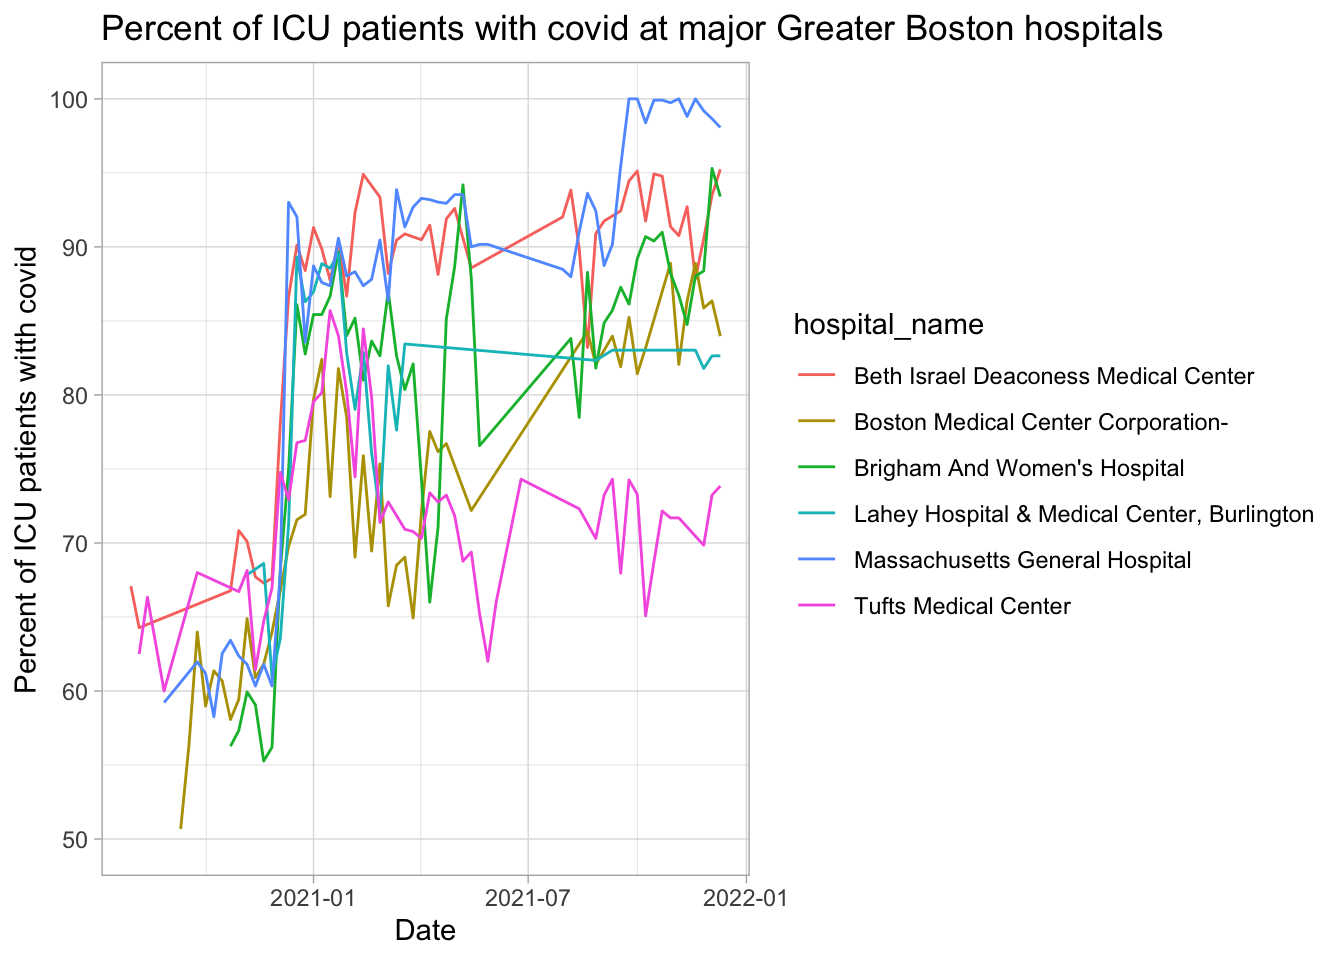
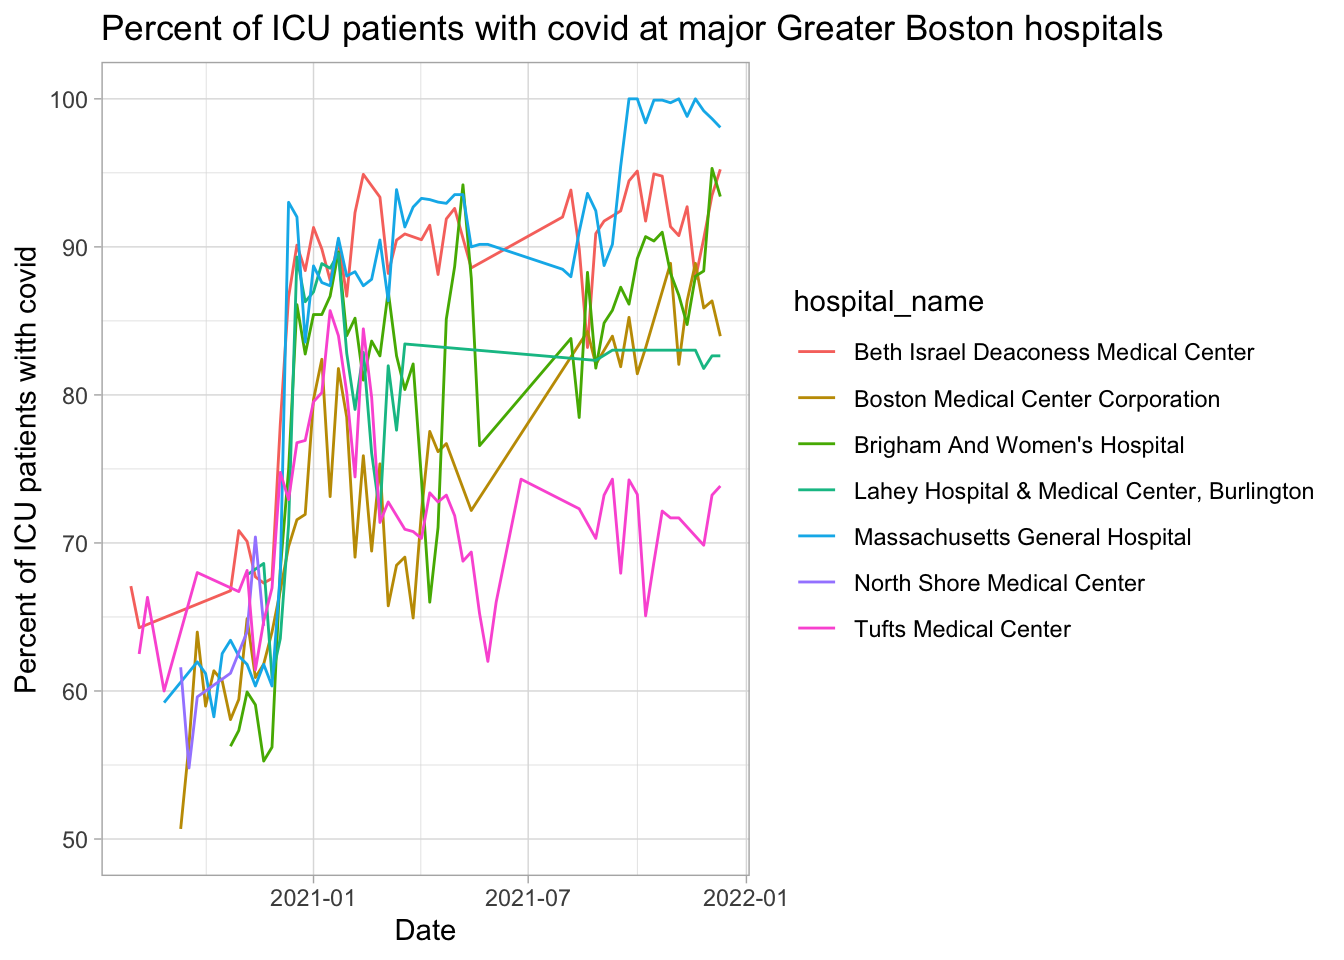
updated data

diff --git a/docs/index.html b/docs/index.html
@@ -284,124 +284,30 @@ $(document).ready(function () {
 <p><img src="index_files/figure-html/unnamed-chunk-3-1.png" width="672" /></p>
 <div id="hospital-data" class="section level3">
 <h3>Hospital data</h3>
-<p>The US Department of Health and Human Services gives data on hospital usage. Here are data for hospitals in this area.</p>
+<p>The US Department of Health and Human Services gives data on hospital usage. Here are data for hospitals in this area with at least 25 ICU beds.</p>
 <table>
 <colgroup>
-<col width="25%" />
-<col width="6%" />
 <col width="9%" />
-<col width="13%" />
-<col width="11%" />
-<col width="9%" />
-<col width="13%" />
-<col width="10%" />
+<col width="23%" />
+<col width="18%" />
+<col width="24%" />
+<col width="19%" />
+<col width="5%" />
 </colgroup>
 <thead>
 <tr class="header">
 <th align="left">Hospital</th>
-<th align="left">City</th>
-<th align="right">Adult beds total</th>
-<th align="right">Adult beds number avail</th>
-<th align="right">Adult beds % avail</th>
-<th align="right">Adult ICU total</th>
 <th align="right">Adult ICU number avail</th>
 <th align="right">Adult ICU % avail</th>
+<th align="right">Adult beds number avail</th>
+<th align="right">Adult beds % avail</th>
+<th align="left">City</th>
 </tr>
 </thead>
 <tbody>
-<tr class="odd">
-<td align="left">Massachusetts General Hospital</td>
-<td align="left">Boston</td>
-<td align="right">913</td>
-<td align="right">37</td>
-<td align="right">4</td>
-<td align="right">119</td>
-<td align="right">2</td>
-<td align="right">2</td>
-</tr>
-<tr class="even">
-<td align="left">Brigham And Women’s Hospital</td>
-<td align="left">Boston</td>
-<td align="right">808</td>
-<td align="right">29</td>
-<td align="right">4</td>
-<td align="right">100</td>
-<td align="right">7</td>
-<td align="right">7</td>
-</tr>
-<tr class="odd">
-<td align="left">Beth Israel Deaconess Medical Center</td>
-<td align="left">Boston</td>
-<td align="right">717</td>
-<td align="right">23</td>
-<td align="right">3</td>
-<td align="right">78</td>
-<td align="right">4</td>
-<td align="right">5</td>
-</tr>
-<tr class="even">
-<td align="left">Boston Medical Center Corporation-</td>
-<td align="left">Boston</td>
-<td align="right">442</td>
-<td align="right">60</td>
-<td align="right">14</td>
-<td align="right">63</td>
-<td align="right">10</td>
-<td align="right">16</td>
-</tr>
-<tr class="odd">
-<td align="left">Lahey Hospital &amp; Medical Center, Burlington</td>
-<td align="left">Burlington</td>
-<td align="right">341</td>
-<td align="right">11</td>
-<td align="right">3</td>
-<td align="right">58</td>
-<td align="right">10</td>
-<td align="right">17</td>
-</tr>
-<tr class="even">
-<td align="left">Tufts Medical Center</td>
-<td align="left">Boston</td>
-<td align="right">330</td>
-<td align="right">75</td>
-<td align="right">23</td>
-<td align="right">65</td>
-<td align="right">17</td>
-<td align="right">26</td>
-</tr>
-<tr class="odd">
-<td align="left">North Shore Medical Center -</td>
-<td align="left">Salem</td>
-<td align="right">293</td>
-<td align="right">14</td>
-<td align="right">5</td>
-<td align="right">19</td>
-<td align="right">1</td>
-<td align="right">4</td>
-</tr>
-<tr class="even">
-<td align="left">Cambridge Health Alliance</td>
-<td align="left">Cambridge</td>
-<td align="right">188</td>
-<td align="right">23</td>
-<td align="right">12</td>
-<td align="right">12</td>
-<td align="right">3</td>
-<td align="right">22</td>
-</tr>
-<tr class="odd">
-<td align="left">New England Baptist Hospital</td>
-<td align="left">Boston</td>
-<td align="right">65</td>
-<td align="right">4</td>
-<td align="right">7</td>
-<td align="right">5</td>
-<td align="right">0</td>
-<td align="right">0</td>
-</tr>
 </tbody>
 </table>
-<p>Plotting percentage of ICU patients with covid over time. Some hospitals have much more frequently updated data than others; some is fairly gappy. This just plots the hospitals that average with at least 50 ICU beds per week.</p>
+<p>Plotting percentage of ICU patients with covid over time. Some hospitals have much more frequently updated data than others; some is fairly gappy. This just plots the hospitals that average at least 25 staffed ICU beds per week.</p>
 <p><img src="index_files/figure-html/unnamed-chunk-5-1.png" width="672" /></p>
 <p>The state also releases information about conditions in all hospitals in the state:</p>
 <p><img src="index_files/figure-html/unnamed-chunk-6-1.png" width="672" /></p>

diff --git a/docs/individualhospitals.html b/docs/individualhospitals.html
@@ -278,118 +278,24 @@ $(document).ready(function () {
 <p>The US Department of Health and Human Services gives data on hospital usage. Here are data for hospitals in this area.</p>
 <table>
 <colgroup>
-<col width="25%" />
-<col width="6%" />
 <col width="9%" />
-<col width="13%" />
-<col width="11%" />
-<col width="9%" />
-<col width="13%" />
-<col width="10%" />
+<col width="23%" />
+<col width="18%" />
+<col width="24%" />
+<col width="19%" />
+<col width="5%" />
 </colgroup>
 <thead>
 <tr class="header">
 <th align="left">Hospital</th>
-<th align="left">City</th>
-<th align="right">Adult beds total</th>
-<th align="right">Adult beds number avail</th>
-<th align="right">Adult beds % avail</th>
-<th align="right">Adult ICU total</th>
 <th align="right">Adult ICU number avail</th>
 <th align="right">Adult ICU % avail</th>
+<th align="right">Adult beds number avail</th>
+<th align="right">Adult beds % avail</th>
+<th align="left">City</th>
 </tr>
 </thead>
 <tbody>
-<tr class="odd">
-<td align="left">Massachusetts General Hospital</td>
-<td align="left">Boston</td>
-<td align="right">913</td>
-<td align="right">37</td>
-<td align="right">4</td>
-<td align="right">119</td>
-<td align="right">2</td>
-<td align="right">2</td>
-</tr>
-<tr class="even">
-<td align="left">Brigham And Women’s Hospital</td>
-<td align="left">Boston</td>
-<td align="right">808</td>
-<td align="right">29</td>
-<td align="right">4</td>
-<td align="right">100</td>
-<td align="right">7</td>
-<td align="right">7</td>
-</tr>
-<tr class="odd">
-<td align="left">Beth Israel Deaconess Medical Center</td>
-<td align="left">Boston</td>
-<td align="right">717</td>
-<td align="right">23</td>
-<td align="right">3</td>
-<td align="right">78</td>
-<td align="right">4</td>
-<td align="right">5</td>
-</tr>
-<tr class="even">
-<td align="left">Boston Medical Center Corporation-</td>
-<td align="left">Boston</td>
-<td align="right">442</td>
-<td align="right">60</td>
-<td align="right">14</td>
-<td align="right">63</td>
-<td align="right">10</td>
-<td align="right">16</td>
-</tr>
-<tr class="odd">
-<td align="left">Lahey Hospital &amp; Medical Center, Burlington</td>
-<td align="left">Burlington</td>
-<td align="right">341</td>
-<td align="right">11</td>
-<td align="right">3</td>
-<td align="right">58</td>
-<td align="right">10</td>
-<td align="right">17</td>
-</tr>
-<tr class="even">
-<td align="left">Tufts Medical Center</td>
-<td align="left">Boston</td>
-<td align="right">330</td>
-<td align="right">75</td>
-<td align="right">23</td>
-<td align="right">65</td>
-<td align="right">17</td>
-<td align="right">26</td>
-</tr>
-<tr class="odd">
-<td align="left">North Shore Medical Center -</td>
-<td align="left">Salem</td>
-<td align="right">293</td>
-<td align="right">14</td>
-<td align="right">5</td>
-<td align="right">19</td>
-<td align="right">1</td>
-<td align="right">4</td>
-</tr>
-<tr class="even">
-<td align="left">Cambridge Health Alliance</td>
-<td align="left">Cambridge</td>
-<td align="right">188</td>
-<td align="right">23</td>
-<td align="right">12</td>
-<td align="right">12</td>
-<td align="right">3</td>
-<td align="right">22</td>
-</tr>
-<tr class="odd">
-<td align="left">New England Baptist Hospital</td>
-<td align="left">Boston</td>
-<td align="right">65</td>
-<td align="right">4</td>
-<td align="right">7</td>
-<td align="right">5</td>
-<td align="right">0</td>
-<td align="right">0</td>
-</tr>
 </tbody>
 </table>
 <p>Plotting percentage of ICU patients with covid over time. Some hospitals have much more frequently updated data than others; some is fairly gappy.</p>
